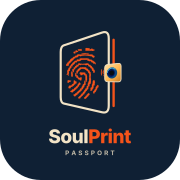
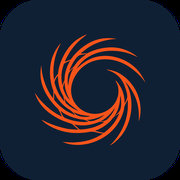
Two marks: swirl for SPE, passport mark for the Passport product only
The undeployed brand rollout had replaced SoulPrintLogo with the Passport mark site-wide, which would have put the product mark in the chrome of every page including the SPE parent homepage and its favicon.

SoulPrintLogo now takes mark='swirl' | 'passport', defaulting to swirl. Only the Passport product surfaces opt in: app/chat/page.js, chat/SettingsModal.js, mobile navigation and mobile views. Marketing, legal, auth, blog, admin, assessment and OG pages inherit the swirl. Repo-wide audit: 39 call sites on the swirl default across 21 files, 15 on the passport mark across 4 files, no mixed files.

The swirl is a single-colour mark so it needs no variant - brand orange reads correctly on both the white nav and the dark hero. Assets: public/logos/soulprint-swirl.svg (transparent, single path, current brand orange; the former logo shipped an opaque white background rect and the pre-rebrand #F64000).

App icons and favicon regenerated from the swirl in the existing treatment: navy rounded square, mark centred at 62%, 4x supersampled then downscaled so the small sizes stay clean.

Frontend and assets only. No API, DB, auth, OAuth, MCP or extension changes.

diff --git a/app/chat/page.js b/app/chat/page.js
@@ -3738,7 +3738,7 @@ function ChatPageInner() {
           {/* Header with collapse toggle */}
           <div className={`flex items-center ${sidebarCollapsed ? 'justify-center' : 'justify-between'} mb-3`}>
             <div className={`flex items-center ${sidebarCollapsed ? '' : 'gap-2'}`}>
-              <SoulPrintLogo variant="reverse" size={22} />
+              <SoulPrintLogo mark="passport" variant="reverse" size={22} />
               {!sidebarCollapsed && <span className="font-condensed font-bold text-white text-sm tracking-widest uppercase">{assistantName}</span>}
             </div>
             {/* Collapse toggle button - desktop only */}
@@ -4146,7 +4146,7 @@ function ChatPageInner() {
               <ChevronLeft className="w-5 h-5" />
             </button>
             <div className="flex items-center gap-2">
-              <SoulPrintLogo variant="reverse" size={20} />
+              <SoulPrintLogo mark="passport" variant="reverse" size={20} />
               <span className="text-white font-medium text-sm flex items-center gap-1">{displayName}</span>
             </div>
           </div>
@@ -4467,8 +4467,8 @@ function ChatPageInner() {
               <div key={msg.id || idx} id={`msg-${msg.id || idx}`} className={`msg-appear group flex ${msg.role === 'user' ? 'justify-end' : 'justify-start'}`}>
                 {msg.role === 'assistant' && (
                   <div className="w-6 h-6 sm:w-7 sm:h-7 rounded-full bg-orange-500/20 border border-orange-500/30 flex items-center justify-center mr-2 sm:mr-3 flex-shrink-0 mt-0.5">
-                    <SoulPrintLogo variant="reverse" size={12} className="sm:hidden" />
-                    <SoulPrintLogo variant="reverse" size={14} className="hidden sm:block" />
+                    <SoulPrintLogo mark="passport" variant="reverse" size={12} className="sm:hidden" />
+                    <SoulPrintLogo mark="passport" variant="reverse" size={14} className="hidden sm:block" />
                   </div>
                 )}
                 <div className={`min-w-0 ${msg.role === 'user' ? 'max-w-[90%] sm:max-w-[85%] lg:max-w-[80%]' : 'max-w-[95%] sm:max-w-[90%] lg:max-w-[85%]'}`}>
@@ -4939,8 +4939,8 @@ function ChatPageInner() {
             {searchingWeb && (
               <div className="flex justify-start msg-appear">
                 <div className="w-6 h-6 sm:w-7 sm:h-7 rounded-full bg-orange-500/20 border border-orange-500/30 flex items-center justify-center mr-2 sm:mr-3 flex-shrink-0">
-                  <SoulPrintLogo variant="reverse" size={12} className="sm:hidden" />
-                  <SoulPrintLogo variant="reverse" size={14} className="hidden sm:block" />
+                  <SoulPrintLogo mark="passport" variant="reverse" size={12} className="sm:hidden" />
+                  <SoulPrintLogo mark="passport" variant="reverse" size={14} className="hidden sm:block" />
                 </div>
                 <div className="bg-white/4 border border-white/8 rounded-2xl px-3 py-2 sm:px-4 sm:py-3 flex items-center gap-2">
                   <Search className="w-3 h-3 sm:w-3.5 sm:h-3.5 text-orange-400 animate-pulse" />
@@ -4956,8 +4956,8 @@ function ChatPageInner() {
               <MessageErrorBoundary key="streaming-boundary">
               <div ref={streamingBubbleRef} className="msg-appear flex justify-start">
                 <div className="w-6 h-6 sm:w-7 sm:h-7 rounded-full bg-orange-500/20 border border-orange-500/30 flex items-center justify-center mr-2 sm:mr-3 flex-shrink-0 mt-0.5">
-                  <SoulPrintLogo variant="reverse" size={12} className="sm:hidden" />
-                  <SoulPrintLogo variant="reverse" size={14} className="hidden sm:block" />
+                  <SoulPrintLogo mark="passport" variant="reverse" size={12} className="sm:hidden" />
+                  <SoulPrintLogo mark="passport" variant="reverse" size={14} className="hidden sm:block" />
                 </div>
                 <div className="min-w-0 max-w-[95%] sm:max-w-[90%] lg:max-w-[85%] rounded-2xl px-3 py-2.5 sm:px-5 sm:py-3.5 bg-white/4 border border-white/8 text-[15px] sm:text-base text-gray-200 leading-7 break-words">
                   {/* Active Imprint Attribution during streaming */}
@@ -5053,8 +5053,8 @@ function ChatPageInner() {
             {loading && !streamingContent && !searchingWeb && (
               <div className="flex justify-start">
                 <div className="w-6 h-6 sm:w-7 sm:h-7 rounded-full bg-orange-500/20 border border-orange-500/30 flex items-center justify-center mr-2 sm:mr-3 flex-shrink-0">
-                  <SoulPrintLogo variant="reverse" size={12} className="sm:hidden" />
-                  <SoulPrintLogo variant="reverse" size={14} className="hidden sm:block" />
+                  <SoulPrintLogo mark="passport" variant="reverse" size={12} className="sm:hidden" />
+                  <SoulPrintLogo mark="passport" variant="reverse" size={14} className="hidden sm:block" />
                 </div>
                 <TypingIndicator />
               </div>
@@ -6642,7 +6642,7 @@ function ChatPageInner() {
             {/* Header */}
             <div className="sticky top-0 bg-[#111820] border-b border-white/10 p-6 text-center">
               <div className="w-16 h-16 mx-auto bg-gradient-to-br from-orange-500/20 to-purple-500/20 rounded-2xl flex items-center justify-center mb-4 border border-orange-500/30">
-                <SoulPrintLogo variant="reverse" size={40} />
+                <SoulPrintLogo mark="passport" variant="reverse" size={40} />
               </div>
               <h2 className="text-2xl font-bold text-white mb-2">Welcome to SoulPrint</h2>
               <p className="text-gray-500 text-sm">Your persistent AI identity layer</p>

diff --git a/components/SoulPrintLogo.js b/components/SoulPrintLogo.js
@@ -3,10 +3,25 @@
 import { useId } from 'react';
 
 /**
- * SoulPrint official logo component.
+ * SoulPrint logo component — renders one of TWO marks.
  *
- * The mark is a tilted passport card: an orange fingerprint whorl inside a
- * card outline, with a gold scanner and blue lens on the right edge.
+ *   mark="swirl"     SoulPrint Engine. The platform / parent brand. THE DEFAULT.
+ *   mark="passport"  SoulPrint Passport. The product.
+ *
+ * The company rule is swirl everywhere EXCEPT the Passport product surfaces:
+ * the standalone soulprintpassport.ai site and the Passport app chrome (chat,
+ * memories, settings, mobile nav). Those four surfaces pass mark="passport";
+ * everything else — marketing, legal, auth, blog, admin, OG pages — inherits
+ * the swirl. Do not flip the default; opt in at the call site.
+ *
+ * ── the swirl ──────────────────────────────────────────────────────────
+ * A single-colour brand-orange mark on a square 10240 canvas, served from
+ * /logos/soulprint-swirl.svg. It takes no `variant`: one colour reads
+ * correctly on the white nav and the dark hero alike.
+ *
+ * ── the passport mark ─────────────────────────────────────────────────
+ * A tilted passport card: an orange fingerprint whorl inside a card outline,
+ * with a gold scanner and blue lens on the right edge.
  *
  * The brand kit ships two colourways and they differ in EXACTLY three
  * attributes - the card fill, the card outline stroke, and the scanner
@@ -21,9 +36,9 @@ import { useId } from 'react';
  * declared in globals.css. "auto" is the default; hard-coded surfaces pass
  * "ink" (always-white) or "reverse" (always-dark).
  *
- * The mark is drawn on a 318x408 portrait canvas. It is NOT square - forcing
- * it into a square box squashes the card and distorts the whorl. Width is
- * derived from height so callers only ever pass one number.
+ * The passport mark is drawn on a 318x408 portrait canvas. It is NOT square -
+ * forcing it into a square box squashes the card and distorts the whorl.
+ * Width is derived from height so callers only ever pass one number.
  *
  * Gradient and clip ids are namespaced per instance via useId so an ink logo
  * and a reverse logo can coexist on the same page.
@@ -48,11 +63,41 @@ export default function SoulPrintLogo({
   size = 32,
   className = '',
   variant = 'auto',
+  mark = 'swirl',
   style,
   ...rest
 }) {
-  const uid = useId().replace(/:/g, '');
   const height = typeof size === 'number' ? size : 32;
+
+  // ── SPE swirl: the parent-brand mark, and the DEFAULT ──────────────────
+  // Two marks ship in this company and they mean different things:
+  //
+  //   swirl    — SoulPrint Engine. The platform. Parent brand.
+  //   passport — SoulPrint Passport. The product.
+  //
+  // The rule is swirl everywhere EXCEPT the Passport product surfaces — the
+  // standalone soulprintpassport.ai site and the Passport app chrome (chat,
+  // memories, settings, mobile nav). Those pass mark="passport" explicitly.
+  //
+  // The swirl is a single-colour mark, so it needs no variant: brand orange
+  // reads correctly on the white nav and on the dark hero alike.
+  if (mark === 'swirl') {
+    return (
+      // eslint-disable-next-line @next/next/no-img-element
+      <img
+        src="/logos/soulprint-swirl.svg"
+        width={height}
+        height={height}
+        alt="SoulPrint"
+        className={className}
+        style={{ flexShrink: 0, display: 'block', ...style }}
+        {...rest}
+      />
+    );
+  }
+
+  // ── Passport product mark ──────────────────────────────────────────────
+  const uid = useId().replace(/:/g, '');
   const width = Math.round(height * RATIO * 100) / 100;
   const colors = variant in VARIANTS ? VARIANTS[variant] : null;
 

diff --git a/components/mobile/MobileNavigation.js b/components/mobile/MobileNavigation.js
@@ -34,7 +34,7 @@ const TabBar = ({ activeTab, onTabChange, assistantName, unreadCount = 0 }) => {
             >
               <div className="relative">
                 {tab.useLogo ? (
-                  <SoulPrintLogo variant="reverse" size={24} className={`transition-opacity ${isActive ? 'opacity-100' : 'opacity-50'}`} />
+                  <SoulPrintLogo mark="passport" variant="reverse" size={24} className={`transition-opacity ${isActive ? 'opacity-100' : 'opacity-50'}`} />
                 ) : (
                   <Icon className={`w-6 h-6 transition-colors ${isActive ? 'text-orange-400' : 'text-gray-500'}`} />
                 )}
@@ -65,7 +65,7 @@ const ChatHeader = ({ assistantName, model, onModelClick, isOnline, webSearchEna
       <div className="flex items-center justify-between px-4 py-2">
         <div className="flex items-center gap-3">
           <div className="relative">
-            <SoulPrintLogo variant="reverse" size={36} />
+            <SoulPrintLogo mark="passport" variant="reverse" size={36} />
             <div className={`absolute -bottom-0.5 -right-0.5 w-3 h-3 rounded-full border-2 border-background ${isOnline ? 'bg-green-500' : 'bg-gray-500'}`} />
           </div>
           <div>

diff --git a/components/chat/SettingsModal.js b/components/chat/SettingsModal.js
@@ -1787,7 +1787,7 @@ function SettingsModal({ onClose, token, onAssessmentReset, initialTab, onModelC
                   {/* Header with Generate Button */}
                   <div className="text-center pb-4 border-b border-white/10">
                     <div className="w-16 h-16 mx-auto bg-gradient-to-br from-orange-500/20 to-purple-500/20 rounded-2xl flex items-center justify-center mb-3 border border-orange-500/30">
-                      <SoulPrintLogo variant="reverse" size={40} />
+                      <SoulPrintLogo mark="passport" variant="reverse" size={40} />
                     </div>
                     <h3 className="text-white font-semibold">{soulPrintData.displayName}'s SoulPrint</h3>
                     <p className="text-gray-500 text-xs mt-1">Your dynamic communication identity</p>

diff --git a/components/mobile/MobileViews.js b/components/mobile/MobileViews.js
@@ -13,7 +13,7 @@ const ProfileView = ({ profile, soulPrint, onSettingsClick, isAdmin, onAdminClic
   <div className="min-h-screen bg-sp-black pt-16 pb-24 px-4">
     <div className="text-center mb-8">
       <div className="w-24 h-24 mx-auto bg-gradient-to-br from-orange-500/20 to-amber-500/20 rounded-full flex items-center justify-center mb-4">
-        <SoulPrintLogo variant="reverse" size={48} />
+        <SoulPrintLogo mark="passport" variant="reverse" size={48} />
       </div>
       <h1 className="text-white text-xl font-semibold">{profile?.display_name || 'Your Profile'}</h1>
       <button 
